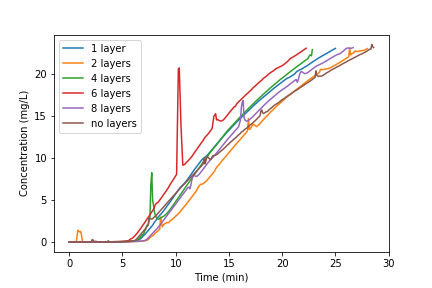
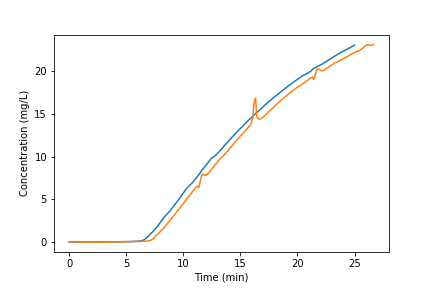
...

diff --git a/Project/team10_final_report.md b/Project/team10_final_report.md
@@ -164,16 +164,23 @@ for i in range(np.size(filenames)):
 
 # Plot concentration against time for different layers
 plt.plot(time_data[1].to(u.min), C_data[1])
-plt.plot(time_data[2].to(u.min), C_data[2])
-plt.plot(time_data[3].to(u.min), C_data[3])
-plt.plot(time_data[4].to(u.min), C_data[4])
+#plt.plot(time_data[2].to(u.min), C_data[2])
+#plt.plot(time_data[3].to(u.min), C_data[3])
+#plt.plot(time_data[4].to(u.min), C_data[4])
 plt.plot(time_data[5].to(u.min), C_data[5])
-plt.plot(time_data[6].to(u.min), C_data[6])
+#plt.plot(time_data[6].to(u.min), C_data[6])
 plt.xlabel("Time (min)")
 plt.ylabel("Concentration (mg/L)")
-leg = plt.legend(('1 layer', '2 layers', '4 layers', '6 layers', '8 layers', 'no layers'), loc='best')
+#leg = plt.legend(('1 layer', '2 layers', '4 layers', '6 layers', '8 layers', 'no layers'), loc='best')
 plt.savefig("Project/Layers.png")
 plt.show()
+
+# Essentially did the same thing for 1-8 layers...
+# More uniform red dye concentration between pores with mixing because bigger distance between activated carbon granules. More transport, more mixing, more uniform before next AC granule.
+# Assuming transport by diffusion within the dimension of a pore is a rate limiting step. Rate at which transfer red dye into AC is function of diffusion within the pore.
+
+# Suspect might take a difference at huuuuge layers
+# Diluting with sand helps only if same mass of activated carbon 
 
 # Plot concentration against time for different flow rates
 plt.plot(time_data[6].to(u.min), C_data[6])
